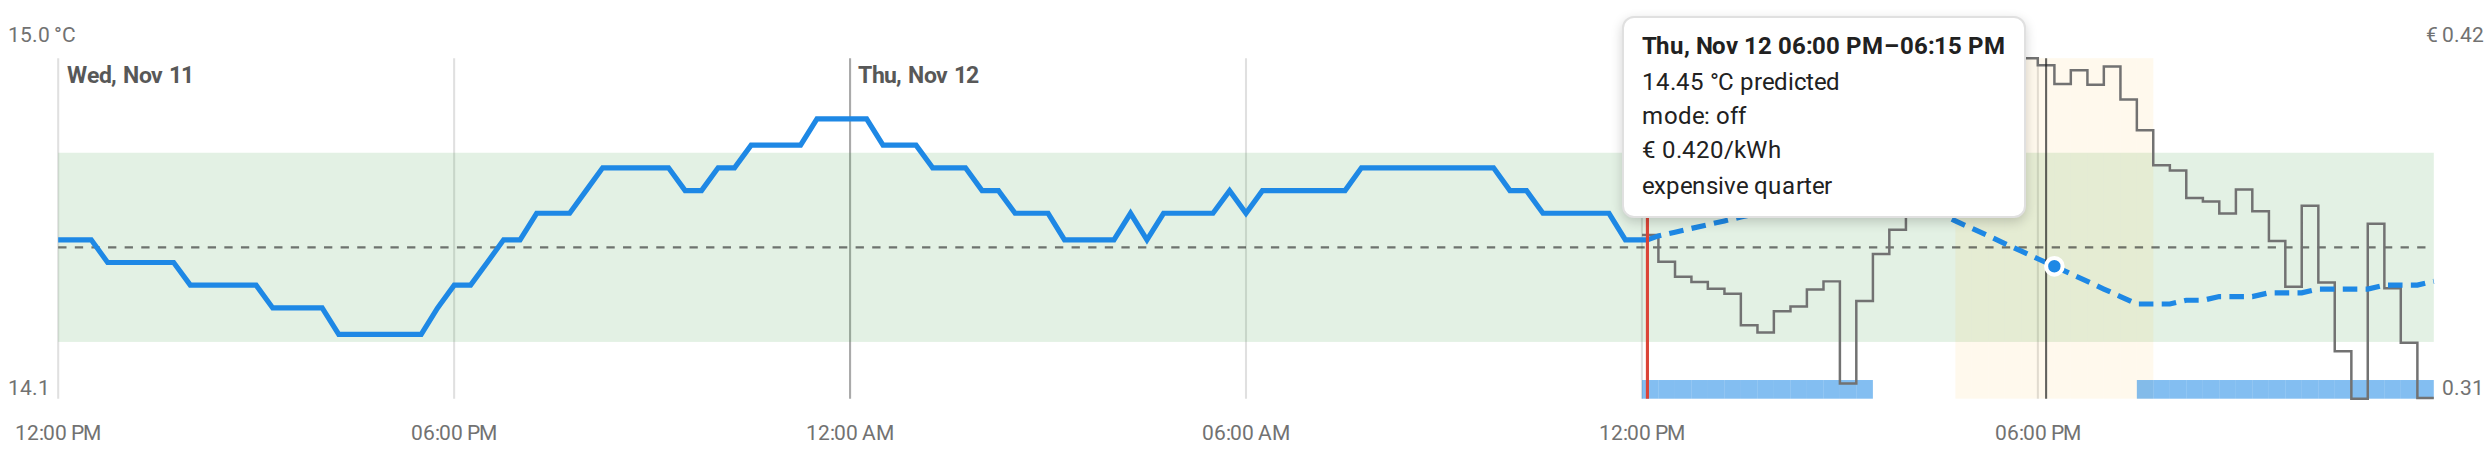
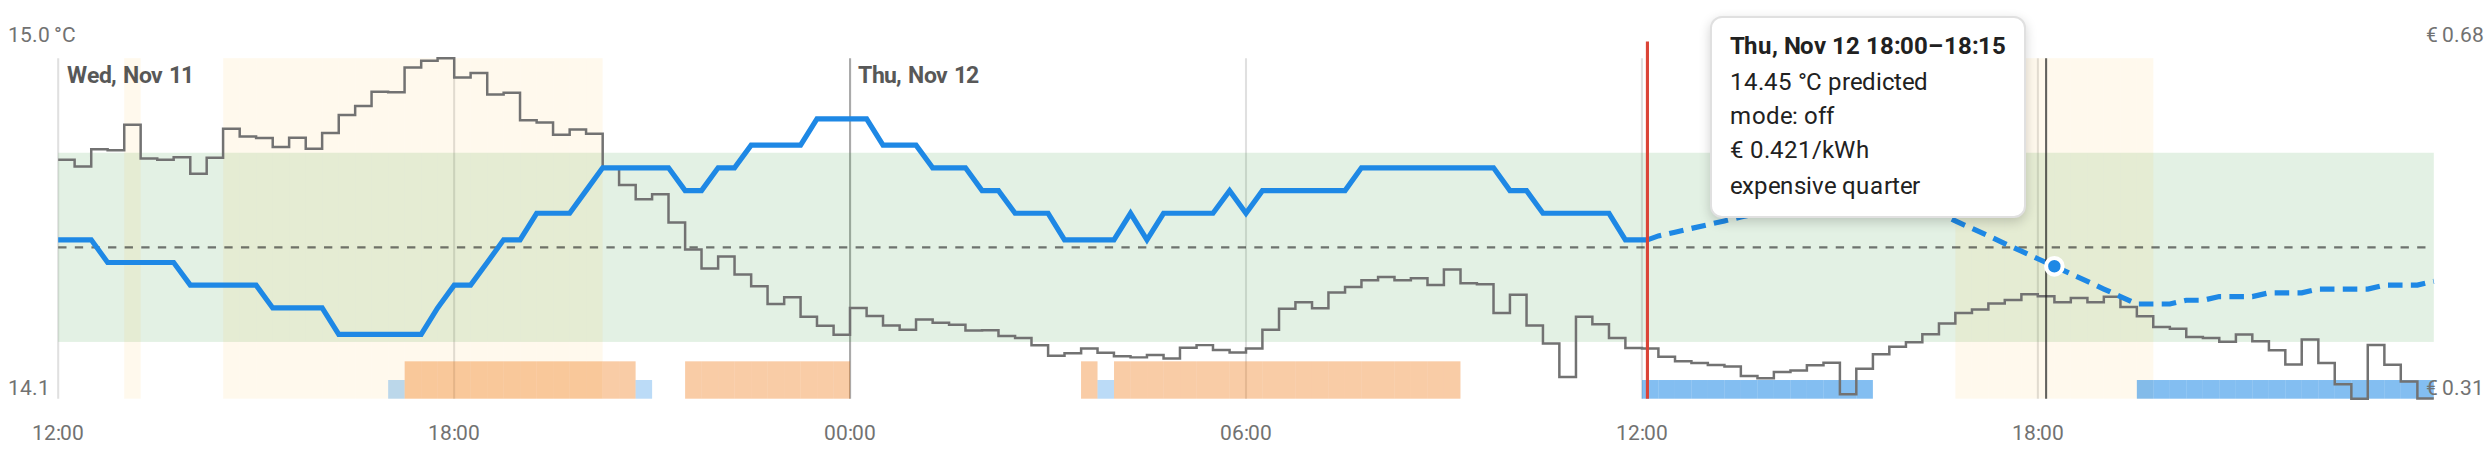
docs: measured modes and prices before now in the plan chart (#34)

diff --git a/scripts/screenshot_card.py b/scripts/screenshot_card.py
@@ -23,6 +23,7 @@ sys.path[:0] = [str(ROOT / "custom_components" / "pond_heatpump_price_planner"),
 
 from conftest import epoch, load_reference  # noqa: E402
 from core.costs import EnergyCosts  # noqa: E402
+from core.model import ModeClassifier  # noqa: E402
 from core.planner import DynamicProgrammingPlanner, PlanRequest  # noqa: E402
 from replay import REFERENCE_PARAMS  # noqa: E402
 
@@ -69,13 +70,20 @@ def example_plan() -> tuple[list[dict], dict]:
 
 
 def pond_history() -> list[dict]:
-    """The measured pond temperature of the 48 hours before the start, from the reference data."""
+    """Measured pond temperature, mode and price of the 48 hours before the start, from the reference data."""
     start = epoch(START)
-    return [
-        {"time": datetime.fromtimestamp(r["t"] + 900, UTC).isoformat(), "temp": round(r["pond"], 2)}
-        for r in load_reference()
-        if start - 48 * 3600 <= r["t"] < start - 900 and r["pond"] is not None
-    ]
+    classifier = ModeClassifier()
+    out = []
+    for r in load_reference():
+        if not (start - 48 * 3600 <= r["t"] < start and r["pond"] is not None):
+            continue
+        item = {"time": datetime.fromtimestamp(r["t"] + 900, UTC).isoformat(), "temp": round(r["pond"], 2)}
+        if (mode := classifier.mode(r["power_w"])) is not None:
+            item["mode"] = mode
+        if r["price"] is not None:
+            item["price"] = round(r["price"], 4)
+        out.append(item)
+    return out
 
 
 def hass_json(now_iso: str) -> dict:

diff --git a/docs/card.md b/docs/card.md
@@ -45,7 +45,7 @@ The card adapts its layout to its own width:
 |---|---|
 | Heat pump | The drawing below, with live values and animations |
 | Thermostat | Ring with the pond temperature (triangle), the target (handle, drag it) and the band (green); target − / + and a vertical slider for the band (in °C); next start/stop and whether the planner controls the heat pump |
-| Plan | 24, 36 or 48 hours, ending where the known prices end (see below): measured pond temperature up to now (solid line), predicted pond temperature from now (dashed line), with band (shaded) and target (dashed), mode per quarter (bars: blue low, orange high), price (thin step line), expensive quarters (light background), solar quarters (yellow), now (red line) and where forecast prices begin (dotted); a legend below the chart explains each element |
+| Plan | 24, 36 or 48 hours, ending where the known prices end (see below): measured pond temperature up to now (solid line), predicted pond temperature from now (dashed line), with band (shaded) and target (dashed), mode per quarter (bars: blue low, orange high; lighter before now, where they show the measured mode), price (thin step line), expensive quarters (light background), solar quarters (yellow), now (red line) and where forecast prices begin (dotted); a legend below the chart explains each element |
 | Figures | Planned cost and energy for 24 h, share in expensive quarters, COP (method), heat loss, thermal power |
 | Switches | Insulation cover, control the heat pump |
 | Model | Collapsible: cooling coefficient, heating rates, prediction error, last learned, COP by outdoor temperature |
@@ -57,7 +57,8 @@ update.
 
 The right side of the chart is where the plan ends: the last known price (or the last forecast price, with a
 price forecast sensor). The left side is that moment minus `hours`. Between the left side and now the chart
-shows the measured pond temperature; from now on the plan.
+shows what happened: the measured pond temperature, the measured mode per quarter (lighter bars, from the mean
+power of the heat pump), the price and the expensive quarters. From now on the chart shows the plan.
 
 | Time | Prices known until | Chart (`hours: 36`) | Measured | Plan |
 |---|---|---|---|---|
@@ -67,7 +68,7 @@ shows the measured pond temperature; from now on the plan.
 When the plan is longer than `hours`, the chart shows now … now + `hours`.
 
 Point at the chart (or touch it on a phone) for a hairline with the values of that quarter: day and time,
-pond temperature (measured or predicted), mode, price (with "forecast" for forecast prices), and whether it is
+pond temperature (measured or predicted), mode (measured or planned), price (with "forecast" for forecast prices), and whether it is
 an expensive quarter or has solar surplus. With the keyboard: focus the chart (Tab), then ← and → move one
 quarter, Home and End jump to the start and end, Escape hides the hairline.
 

diff --git a/docs/architecture.md b/docs/architecture.md
@@ -877,6 +877,8 @@ classDiagram
         +chartWindow(now, planEnd, hours) ChartWindow
         +scales(plan, w, h) ChartScales
         +measuredPath(scales) / predictedPath(plan, scales)
+        +pastQuarters(plan, start) list~PastQuarter~
+        +pricePath(plan, scales)
         +quarterAt(scales, x) / hoverInfo(plan, scales, t)
         +timeTicks(start, end)
         +runs(quarters)
@@ -973,9 +975,12 @@ sequenceDiagram
     PC->>C: scales(plan): chartWindow(now, plan end, hours)
     C-->>PC: window end − hours … end, measured points up to now
     PC->>PC: draw measured (solid) and predicted (dashed) lines
+    C->>C: pastQuarters(): measured mode and price per quarter before the plan (#34)
+    C-->>PC: past quarters, their expensive marking, price range incl. the past
+    PC->>PC: draw past mode bars (lighter), expensive quarters, one price line through past and plan
     U->>PC: pointermove / ← →
     PC->>C: quarterAt(x) → hoverInfo(quarter)
-    C-->>PC: time, temperature (measured or predicted), mode, price
+    C-->>PC: time, temperature (measured or predicted), mode, price (also for past quarters)
     PC->>PC: hairline, dot and tooltip (only the chart re-renders)
     U->>PC: pointerleave (mouse), tap outside, Escape
     PC->>PC: hide

diff --git a/docs/entities.md b/docs/entities.md
@@ -56,7 +56,8 @@ quarter), `price` (effective €/kWh), `known` (false where the price comes from
 solar configured, `surplus` (kW). It is not stored in the recorder.
 
 **`pond_history`**: the pond temperature of the last 48 h, one entry per quarter with `time` (end of the
-quarter) and `temp`. The card draws the last 24 h in the thermostat and the measured part of the plan chart. It is not stored in the recorder.
+quarter) and `temp`, plus `mode` (the measured mode: off, low or high from the mean power of the
+quarter) and `price` (effective €/kWh of the quarter) when they are known. The card draws the last 24 h in the thermostat and the history part of the plan chart (temperature, mode bars, prices). It is not stored in the recorder.
 
 **`price_status`**:
 

diff --git a/CHANGELOG.md b/CHANGELOG.md
@@ -7,6 +7,12 @@ earlier releases used [Semantic Versioning](https://semver.org/spec/v2.0.0.html)
 
 ## [Unreleased]
 
+### Added
+
+- The plan chart keeps the history visible left of now: the measured mode per quarter (lighter bars), the
+  prices and the expensive quarters; the tooltip of a past quarter shows its mode and price. The
+  `pond_history` attribute carries the measured `mode` and the `price` of each quarter (#34).
+
 ## [2026.11.3] - 2026-11-20
 
 ### Added
